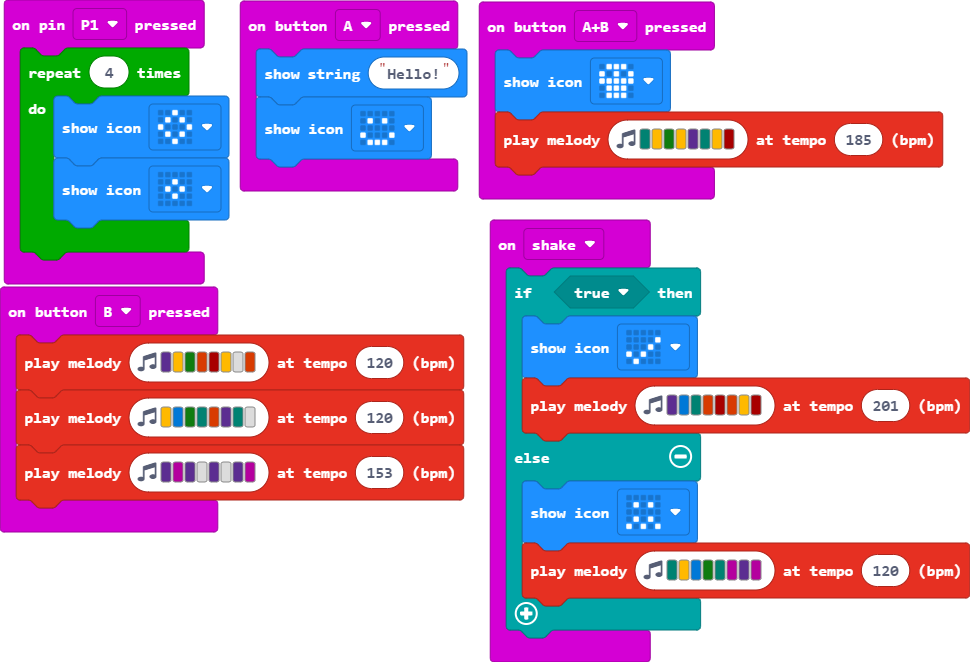
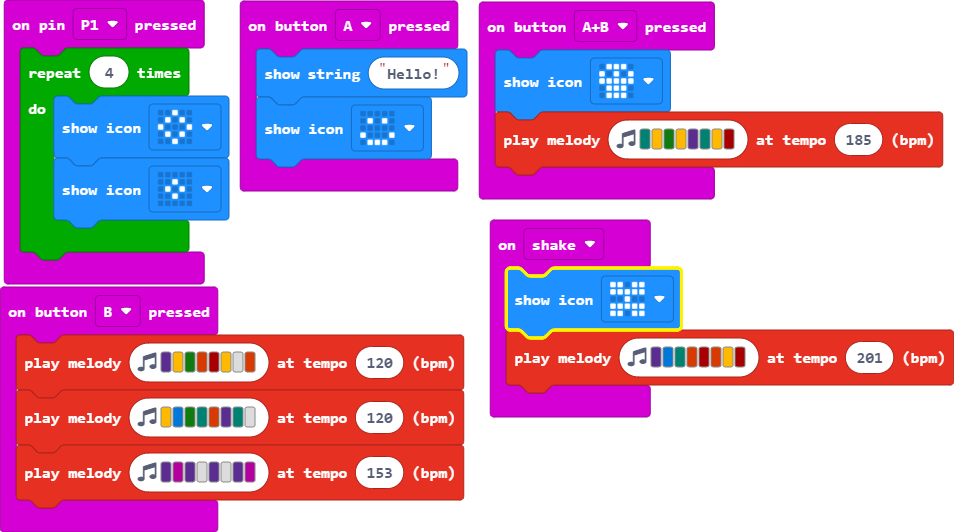
Update main.blocks, main.ts

diff --git a/main.ts b/main.ts
@@ -18,11 +18,6 @@ input.onPinPressed(TouchPin.P1, function () {
     }
 })
 input.onGesture(Gesture.Shake, function () {
-    if (true) {
-        basic.showIcon(IconNames.Yes)
-        music.playMelody("D E F B C5 B A C5 ", 201)
-    } else {
-        basic.showIcon(IconNames.Confused)
-        music.playMelody("F A E G F C D C ", 120)
-    }
+    basic.showIcon(IconNames.Butterfly)
+    music.playMelody("D E F B C5 B A C5 ", 201)
 })
